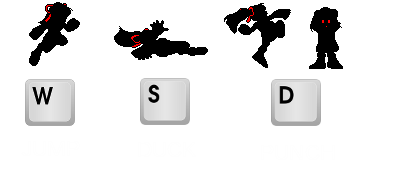
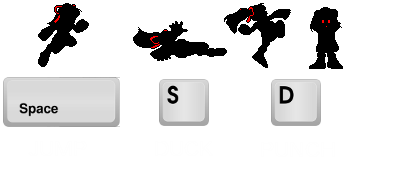
change space to jump

diff --git a/lib/game.js b/lib/game.js
@@ -8,7 +8,7 @@ SideScroller.Game.prototype = {
     this.game.time.advancedTiming = true;
     this.music = this.game.add.audio('music');
 
-    this.jump = this.game.input.keyboard.addKey(Phaser.Keyboard.W);
+    this.jump = this.game.input.keyboard.addKey(Phaser.Keyboard.SPACEBAR);
     this.duck = this.game.input.keyboard.addKey(Phaser.Keyboard.S);
     this.punch = this.game.input.keyboard.addKey(Phaser.Keyboard.D);
 
